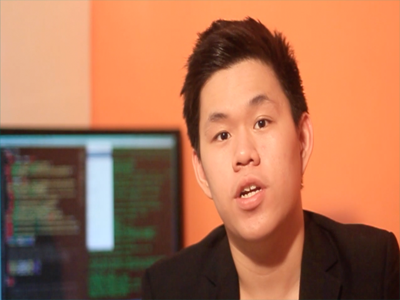
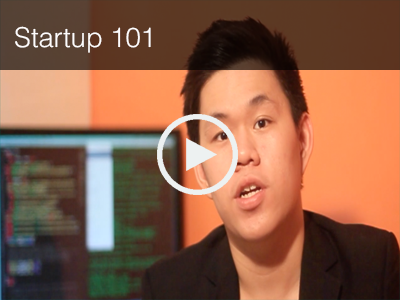
newclass

Changed region(s): [[0.0, 0.0, 1.0, 0.24], [0.39, 0.36, 0.6, 0.66], [0.45, 0.45, 0.54, 0.57]]

diff --git a/index.html b/index.html
@@ -77,6 +77,53 @@
          <Br><Br><Br><Br><Br><Br><Br><Br><Br>
   
 
+
+
+
+
+<!-- Modal1 -->
+<div class="modal fade" id="myModal" tabindex="-1" role="dialog" aria-labelledby="myModalLabel" aria-hidden="true">
+  <div class="modal-dialog">
+    <div class="modal-content">
+      <div class="modal-header">
+        <button type="button" class="close" data-dismiss="modal" aria-hidden="true">&times;</button>
+        
+      </div>
+      <div class="modal-body">
+     <Center><iframe width="840" height="420" src="//www.youtube.com/embed/U6FvJ6jMGHU?rel=0" frameborder="0" allowfullscreen></iframe>
+      </div>
+      <div class="modal-footer">
+        <button type="button" class="btn btn-danger" data-dismiss="modal">Close</button>
+        
+      </div>
+    </div><!-- /.modal-content -->
+  </div><!-- /.modal-dialog -->
+</div><!-- /.modal -->
+
+
+
+<!-- Modal2 -->
+<div class="modal fade" id="myModal2" tabindex="-1" role="dialog" aria-labelledby="myModalLabel" aria-hidden="true">
+  <div class="modal-dialog">
+    <div class="modal-content">
+      <div class="modal-header">
+        <button type="button" class="close" data-dismiss="modal" aria-hidden="true">&times;</button>
+        
+      </div>
+      <div class="modal-body">
+     <Center><iframe width="840" height="420" src="//www.youtube.com/embed/U6FvJ6jMGHU?rel=0" frameborder="0" allowfullscreen></iframe>
+      </div>
+      <div class="modal-footer">
+        <button type="button" class="btn btn-danger" data-dismiss="modal">Close</button>
+        
+      </div>
+    </div><!-- /.modal-content -->
+  </div><!-- /.modal-dialog -->
+</div><!-- /.modal -->
+
+
+
+
  
      <div class="container demo-3">
       <!-- Top Navigation
@@ -86,41 +133,46 @@
       <ul class="grid cs-style-3">
         <li>
           <figure>
-            <img src="images/4.png" alt="img04">
+            <!-- Button trigger modal -->
+
+
+
+
+<img src="images/4.png" alt="img04" data-toggle="modal" data-target="#myModal">
             <figcaption>
               <h3>Technology</h3>
                <span>Lloyd Luna</span>
-      <a href="http://dribbble.com/shots/1116685-Settings">Enroll</a></figcaption>
+      <a href="class.html">Enroll</a></figcaption>
             </figcaption>
           </figure>
         </li>
         <li>
           <figure>
-            <img src="images/1.png" alt="img01">
+            <img src="images/1.png" alt="img01" data-toggle="modal" data-target="#myModal2">
             <figcaption>
               <h3>Startup101</h3>
               <span>Gian Javelona</span>
-              <a href="http://dribbble.com/shots/1115632-Camera">Enroll</a>
+              <a href="class.html">Enroll</a>
             </figcaption>
           </figure>
         </li>
         <li>
           <figure>
-            <img src="images/2.png" alt="img02">
+            <img src="images/2.png" alt="img02" data-toggle="modal" data-target="#myModal2">
             <figcaption>
               <h3>Music</h3>
               <span>Jacob Cummings</span>
-              <a href="http://dribbble.com/shots/1115960-Music">Enroll</a>
+              <a href="class.html">Enroll</a>
             </figcaption>
           </figure>
         </li>
         <li>
           <figure>
-            <img src="images/5.png" alt="img05">
+            <img src="images/5.png" alt="img05" data-toggle="modal" data-target="#myModal2">
             <figcaption>
               <h3>Safari</h3>
               <span>Jacob Cummings</span>
-              <a href="http://dribbble.com/shots/1116775-Safari">Enroll</a>
+              <a href="class.html">Enroll</a>
             </figcaption>
           </figure>
         </li>
